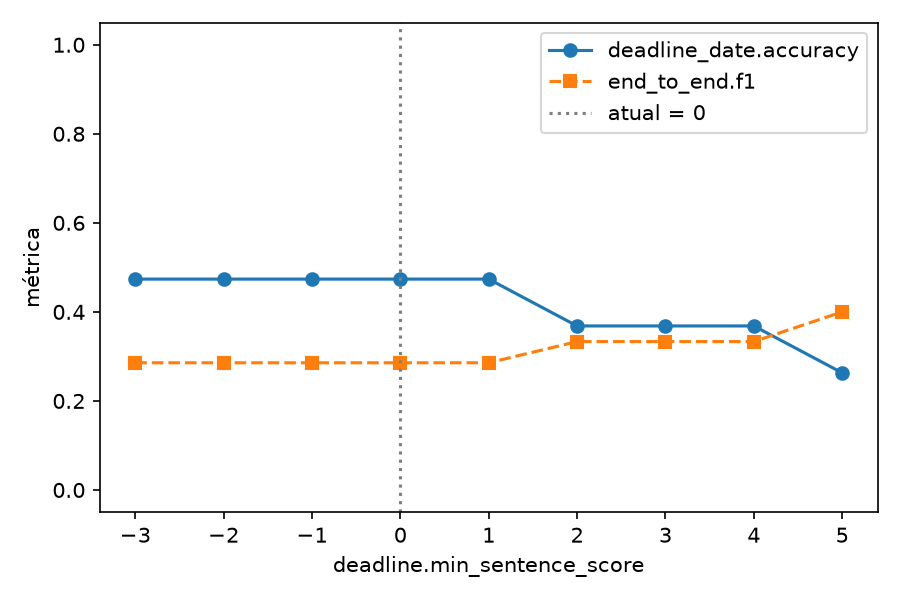
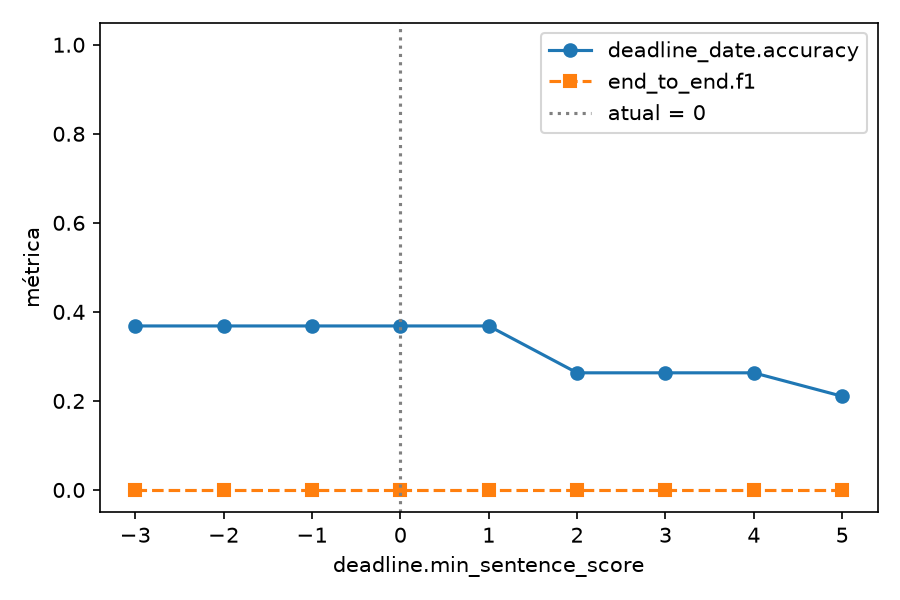
2026-11-10

diff --git a/pipeline/filtering/deadline_filter.py b/pipeline/filtering/deadline_filter.py
@@ -17,6 +17,10 @@ _DATE_RE = re.compile(
     r"|(\d{1,2})º?\s+de\s+(" + "|".join(_MONTHS) + r")(?:\s+de\s+(\d{4}))?"
 )
 
+# Palavras que marcam o fim do prazo; a data seguinte é o prazo
+_LIMIT_ANCHOR_RE = re.compile(r"limite|encerramento|término|termino|retificad|prorrogad")
+_NEG_ANCHOR_RE = re.compile(r"resultado|divulga|homologa|publicad|assinatura")
+
 class DeadlineExtractor:
 
     # No replay, "hoje" é a data da coleta (snapshot), não a data em que o código roda
@@ -47,25 +51,41 @@ class DeadlineExtractor:
             }
         )
 
-    # Todas as datas escritas na frase, na ordem em que aparecem
-    def dates_in_sentence(self, sentence: str) -> List[datetime]:
+    # Todas as datas escritas na frase, com a posição onde começam
+    def date_matches(self, sentence: str) -> List[tuple]:
         dates = []
 
         for m in _DATE_RE.finditer(sentence):
             try:
                 if m[1]:
-                    dates.append(datetime(int(m[1]), int(m[2]), int(m[3])))
+                    d = datetime(int(m[1]), int(m[2]), int(m[3]))
                 elif m[4]:
                     year = int(m[6])
-                    dates.append(datetime(year + 2000 if year < 100 else year, int(m[5]), int(m[4])))
+                    d = datetime(year + 2000 if year < 100 else year, int(m[5]), int(m[4]))
                 else:
                     # Sem ano explícito: o ano da coleta
                     year = int(m[9]) if m[9] else self.today_date.year
-                    dates.append(datetime(year, _MONTHS[m[8]], int(m[7])))
+                    d = datetime(year, _MONTHS[m[8]], int(m[7]))
             except ValueError:
                 continue
+            dates.append((d, m.start()))
 
         return dates
+
+    def dates_in_sentence(self, sentence: str) -> List[datetime]:
+        return [d for d, _ in self.date_matches(sentence)]
+
+    # Primeira data depois de "limite", "encerramento"...; vale a última âncora que tem data
+    def pick_by_keyword(self, sentence: str, found: List[tuple]) -> datetime:
+        best = None
+
+        for anchor in _LIMIT_ANCHOR_RE.finditer(sentence):
+            after = [(d, start) for d, start in found if start > anchor.start()]
+            if after and not _NEG_ANCHOR_RE.search(sentence, anchor.end(), after[0][1]):
+                best = after[0][0]
+
+        return best or found[-1][0]
+
 
     # Fallback com regex
     def regex_dates(self, text: str) -> List[str]:
@@ -122,9 +142,12 @@ class DeadlineExtractor:
 
         for sentence in candidates:
             if self.cfg.sentence_dates:
-                found = self.dates_in_sentence(sentence)
-                # Em "de X a Y", Y é o fim do período de inscrição
-                parsed_date = found[-1] if found else None
+                found = self.date_matches(sentence)
+                if self.cfg.date_by_keyword and len(found) > 1:
+                    parsed_date = self.pick_by_keyword(sentence, found)
+                else:
+                    # Em "de X a Y", Y é o fim do período de inscrição
+                    parsed_date = found[-1][0] if found else None
             else:
                 parsed_date = self.parse_date(sentence)
 
@@ -163,6 +186,29 @@ class DeadlineExtractor:
                         continue
 
                     scored_dates.append((parsed_date, self.cfg.regex_fallback_score, match))
+
+        # A data de maior score é o prazo; se já passou, o edital está encerrado
+        if self.cfg.open_from_best and all_dates:
+            best_date, best_score, best_sentence = max(all_dates, key=lambda x: x[1])
+
+            if best_date.date() < self.today_date:
+                return {
+                    "deadline": None,
+                    "score": 0,
+                    "confidence": 0.0,
+                    "expired": True,
+                    "best_any_date": best_date.date()
+                }
+
+            return {
+                "deadline": best_date.date(),
+                "score": best_score,
+                "confidence": min(1.0, best_score / 10),
+                "source_sentence": best_sentence,
+                "expired": False,
+                "best_any_date": best_date.date()
+            }
+
 
         # Nenhuma válida encontrada
         if not scored_dates:

diff --git a/pipeline/evaluation/sensitivity_analysis.py b/pipeline/evaluation/sensitivity_analysis.py
@@ -54,7 +54,33 @@ GRID = {
     "deadline.fallback_window": [500, 1000, 2000, 5000, 20000],
 }
 
-BASE = with_overrides(DEFAULT, {"deadline.sentence_dates": True})
+BASE = with_overrides(DEFAULT, {"deadline.sentence_dates": True, "deadline.open_from_best": True,
+                                "deadline.date_by_keyword": True})
+
+_NO_EDITAIS = tuple(p for p in DEFAULT.listing.url_patterns if p not in ("/editais/", "/chamadas/"))
+
+VARIANTS = {
+    "base": {},
+    "listing_sem_url_editais_chamadas": {"listing.url_patterns": _NO_EDITAIS},
+    "listing_sem_kw_editais_chamadas": {
+        "listing.url_patterns": _NO_EDITAIS,
+        "listing.url_keywords": tuple(k for k in DEFAULT.listing.url_keywords if k not in ("editais", "chamadas")),
+    },
+    "relevance_tema": {"relevance.keywords": {**DEFAULT.relevance.keywords,
+                       "fomento": 2, "subvenção": 2, "pesquisa": 1, "startup": 1, "bolsa": 1}},
+    "relevance_sem_score_threshold": {"relevance.score_threshold": 0},
+}
+
+def run_variants(snapshot, labels, contents, out_dir):
+    rows = []
+    for name, overrides in VARIANTS.items():
+        cfg = with_overrides(BASE, overrides)
+        res = _flatten(evaluate_stages(extract_features(snapshot, cfg, contents), labels, cfg))
+        rows.append({"variant": name, **res})
+        print(f"{name:<36} perdidos={res['editais_perdidos.lost']} errados={res['end_to_end.fp']} "
+              f"listing.f05={res['listing.f05']:.3f} relevance.f2={res['relevance.f2']:.3f} "
+              f"data={res['deadline_date.accuracy']:.3f}")
+    write_rows(out_dir / "variants.csv", rows)
 
 # Pesos individuais das palavras-chave de relevância: "relevance.keywords[edital]"
 for kw in DEFAULT.relevance.keywords:
@@ -173,6 +199,9 @@ def main():
     snapshot = load_snapshot(run_dir)
     labels = load_labels(run_dir)
     contents = load_contents(snapshot)
+    if "--variants" in sys.argv:
+        run_variants(snapshot, labels, contents, run_dir / "variants")
+        return
     out_dir = run_dir / ("sensitivity" if BASE == DEFAULT else "sensitivity_base")
 
     impact = []

diff --git a/config/heuristics.py b/config/heuristics.py
@@ -71,6 +71,8 @@ class DeadlineConfig:
     year_window: int = 10
     fallback_window: int = 2000
     sentence_dates: bool = False 
+    open_from_best: bool = False
+    date_by_keyword: bool = False
 
 @dataclass(frozen=True)
 class DedupConfig:
